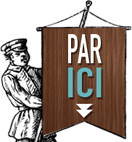
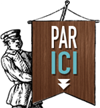
Add the par-ici image on the form

diff --git a/app/assets/stylesheets/controllers/jobs.css.scss b/app/assets/stylesheets/controllers/jobs.css.scss
@@ -149,6 +149,10 @@
 /* =============================================================================
    THE CONTENT: JOB FORM
    ========================================================================== */
+.jobForm{
+  background:image-url('here.png') right 352px no-repeat;
+}  
+ 
 #jobFormLeft{
   display:inline-block;
   width:450px;

diff --git a/app/assets/stylesheets/controllers/questions.css.scss b/app/assets/stylesheets/controllers/questions.css.scss
@@ -210,7 +210,7 @@
 }
 
 .questionForm{
-  background:image-url('here.png') right 55px no-repeat;
+  background:image-url('here.png') right 88px no-repeat;
 }
 
 .answerAccept{

diff --git a/app/assets/stylesheets/controllers/events.css.scss b/app/assets/stylesheets/controllers/events.css.scss
@@ -120,3 +120,7 @@
   @extend #eventFormLeft;
   margin-left:55px;
 }
+
+.eventForm{
+  background:image-url('here.png') right 88px no-repeat;
+}
